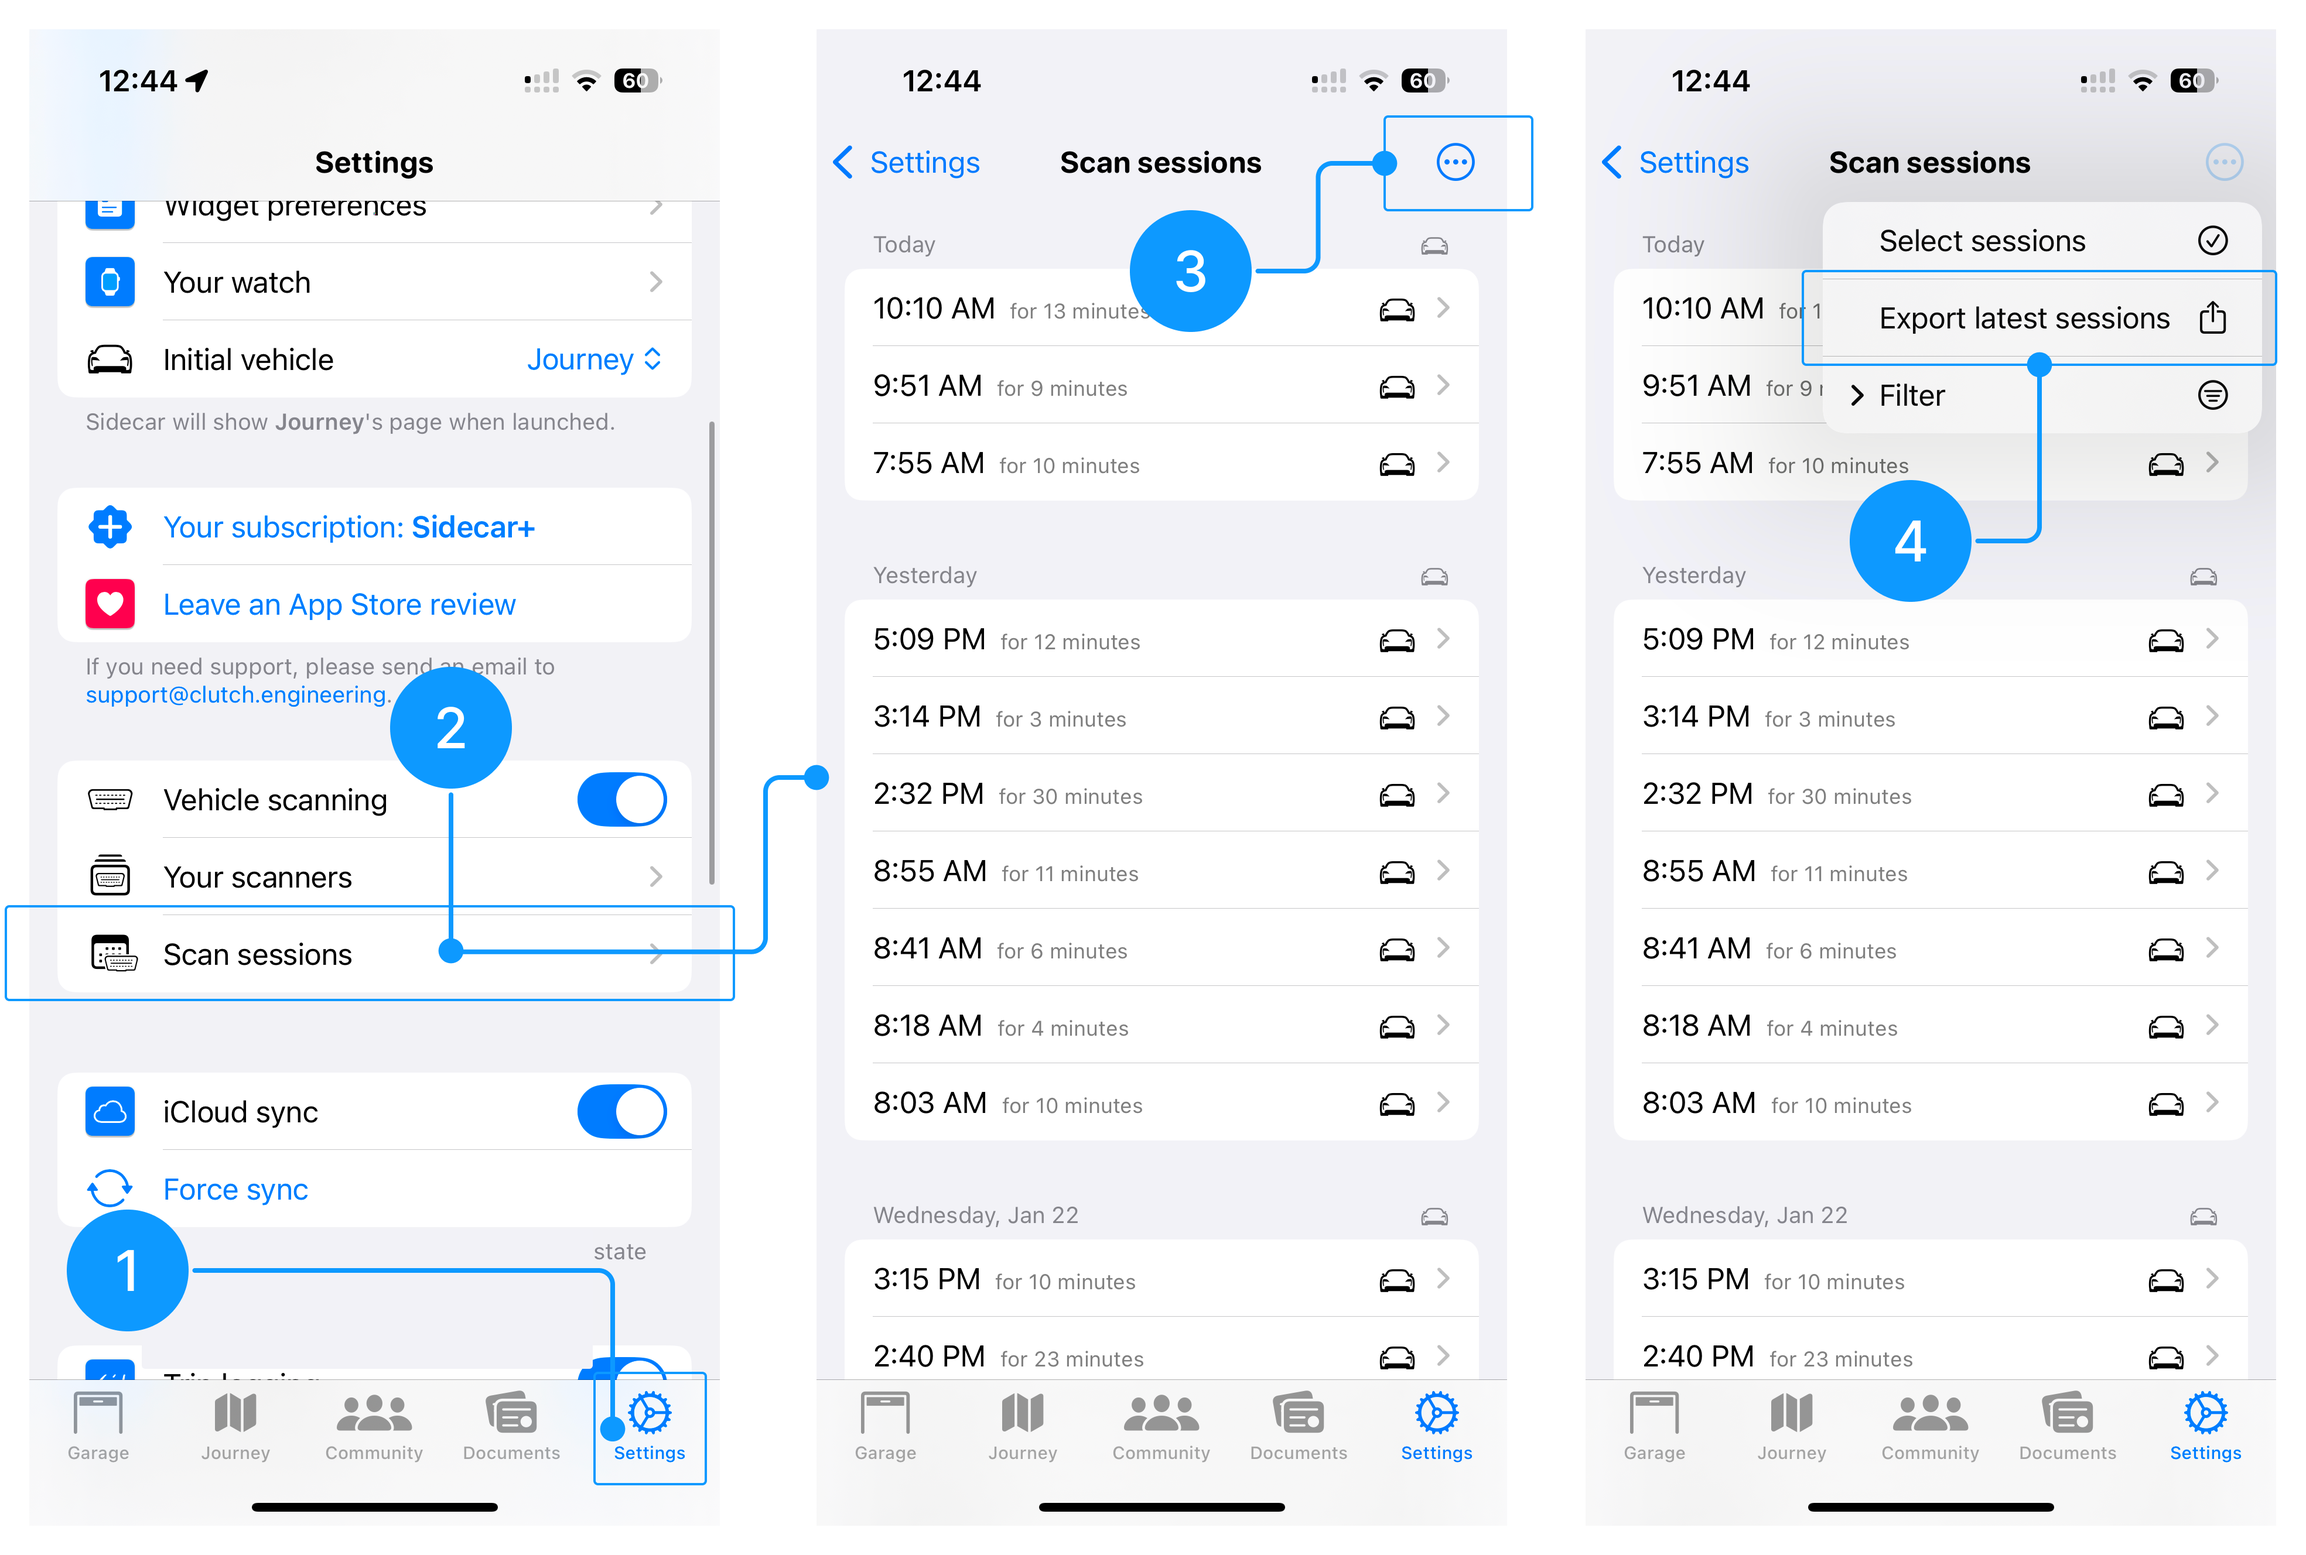
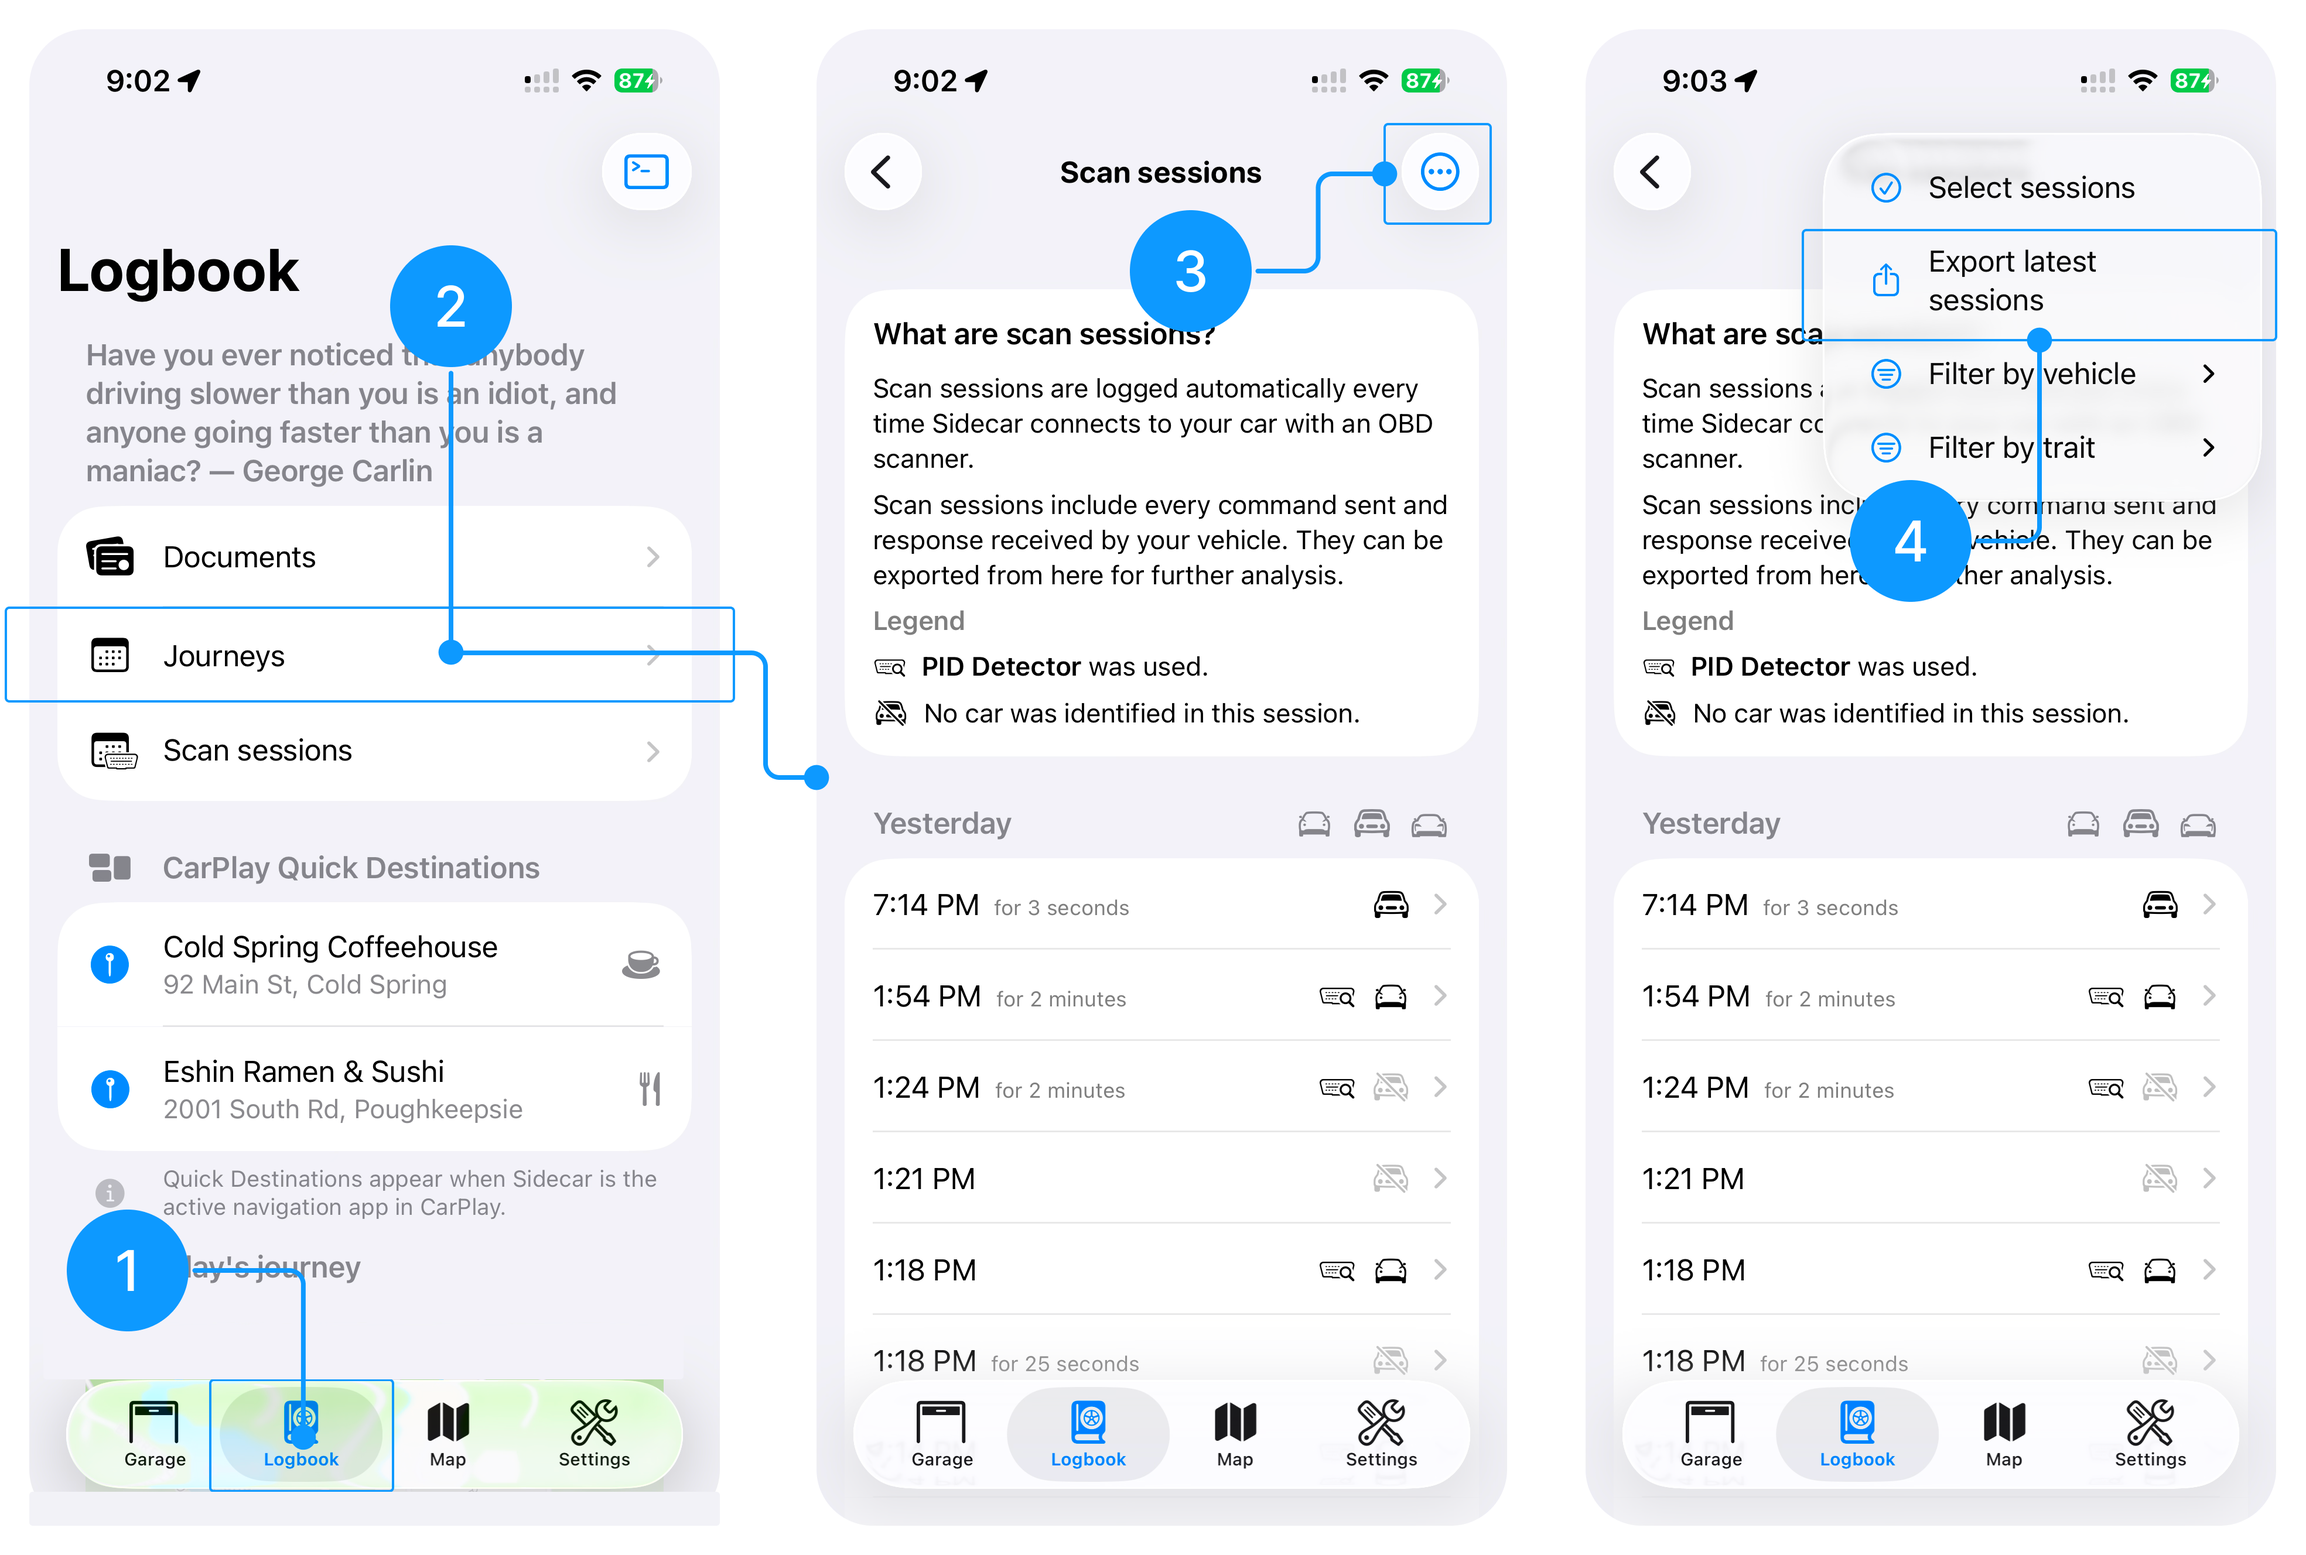
Update scan sessions export help guide.

diff --git a/generator/Sources/gensite/pages/Help/Help.swift b/generator/Sources/gensite/pages/Help/Help.swift
@@ -55,8 +55,8 @@ log is stored privately on your phone.
 
 To export the logs from your phone, follow these steps from within the Sidecar app:
 
-1. Tap the Settings tab.
-2. Scroll down and tap the "Scan sessions" button.
+1. Tap the Logbook tab.
+2. Tap "Scan sessions".
 3. Tap the three-dot menu button.
 4. Tap "Export latest sessions" or "Select sessions" and then select the specific sessions you want to export.
 5. A share sheet will appear once you've selected your sessions for export. You can now airdrop the file, send it via email, or perform any other share action with the data. You'll typically want to email this file to support@clutch.engineering for onboarding purposes.
